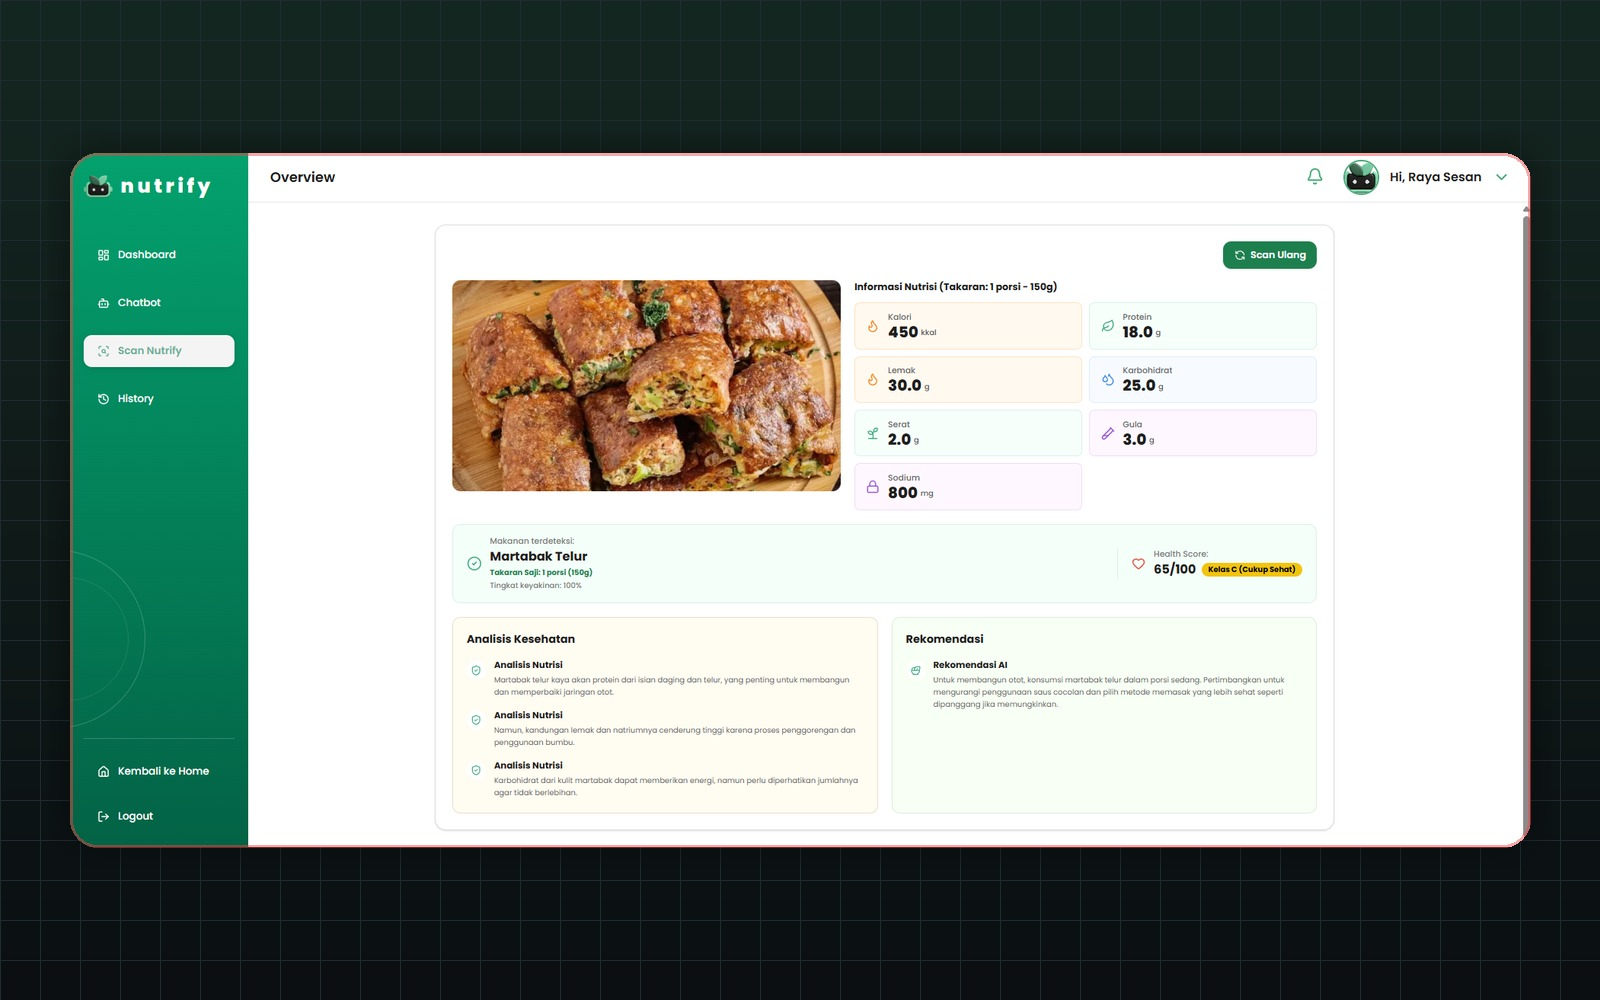
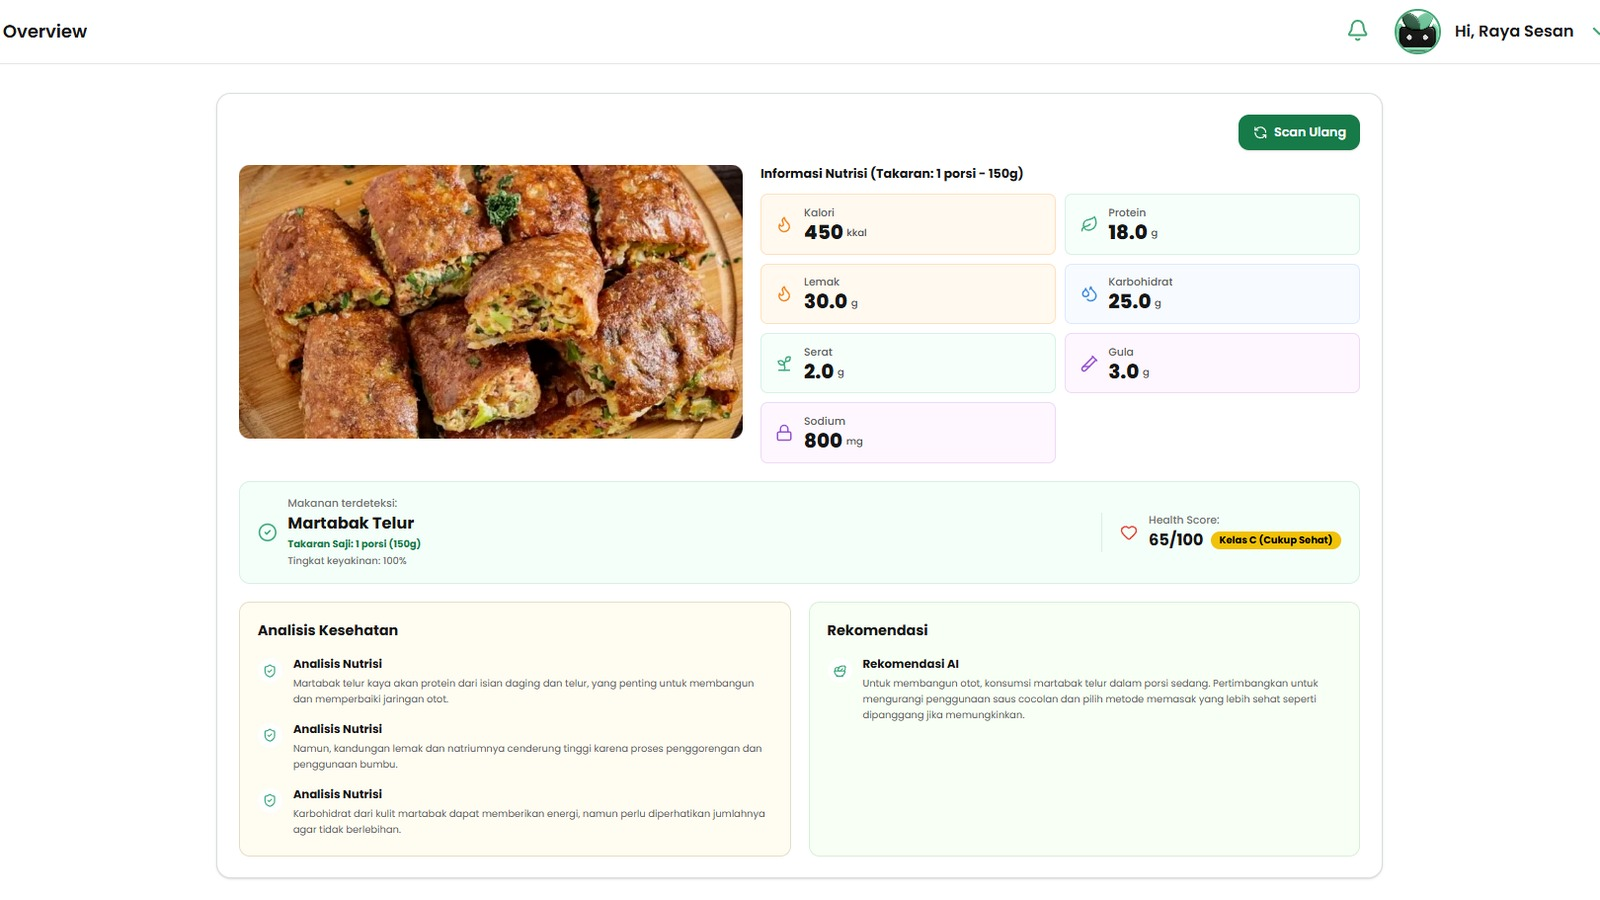
Polish project showcase interactions

diff --git a/src/components/Projects.jsx b/src/components/Projects.jsx
@@ -1,10 +1,10 @@
 import { useState } from 'react';
 
 const filters = [
-  { id: 'all', label: 'All' },
-  { id: 'ai', label: 'AI/ML' },
-  { id: 'sql', label: 'SQL' },
-  { id: 'bi', label: 'BI' },
+  { id: 'all', label: 'All', icon: 'lucide:layout-grid' },
+  { id: 'ai', label: 'AI/ML', icon: 'lucide:brain-circuit' },
+  { id: 'sql', label: 'SQL', icon: 'lucide:database' },
+  { id: 'bi', label: 'BI', icon: 'lucide:bar-chart-3' },
 ];
 
 const projects = [
@@ -17,8 +17,8 @@ const projects = [
     role: 'AI Engineer',
     contribution: 'Developed the Indonesian food classification pipeline using TensorFlow and transfer learning, implemented custom TensorFlow components, deployed model inference through FastAPI, and integrated Gemini-based nutrition recommendations with the application backend.',
     image: '/nutrify-preview.jpg',
-    imageFit: 'contain',
     imageTone: 'natural',
+    imageObjectPosition: 'center top',
     fallbackTitle: 'Nutrify Scanner Preview',
     fallbackText: 'Food scanner result with nutrition breakdown, health score, and AI recommendation.',
     alt: 'Screenshot preview of Nutrify AI-powered nutrition platform',
@@ -84,9 +84,9 @@ const projects = [
     categoryLabel: 'MACHINE LEARNING',
     title: 'Credit Risk Prediction',
     desc: 'Classifies borrower default risk using demographic, financial, and loan-related features. Random Forest outperformed Logistic Regression and was selected as the final model for credit risk assessment.',
-    image: '/credit_risk_ml.jpg',
-    fallbackTitle: 'Credit Risk Prediction',
-    fallbackText: 'Classification workflow for default risk analysis.',
+    image: null,
+    fallbackTitle: 'Preview Coming Soon',
+    fallbackText: 'Project visual will be added after the real screenshot is ready.',
     alt: 'Preview image for Credit Risk Prediction project',
     tags: ['Python', 'Scikit-learn', 'Classification', 'Random Forest', 'Feature Engineering'],
     stats: [
@@ -114,9 +114,9 @@ const projects = [
     categoryLabel: 'DATA ANALYSIS / SQL',
     title: 'Bank Marketing SQL Analytics',
     desc: 'Analyzes a bank marketing campaign dataset with SQLite to find customer segments and campaign factors linked to term deposit subscriptions. The analysis covers conversion by job, education, contact channel, campaign timing, and previous campaign outcome.',
-    image: '/sql_analytics.jpg',
-    fallbackTitle: 'Bank Marketing SQL Analytics',
-    fallbackText: 'SQL campaign segmentation and conversion analysis.',
+    image: null,
+    fallbackTitle: 'Preview Coming Soon',
+    fallbackText: 'Project visual will be added after the real screenshot is ready.',
     alt: 'Preview image for Bank Marketing SQL Analytics project',
     tags: ['SQL', 'SQLite', 'CTE', 'Window Functions', 'Segmentation'],
     stats: [
@@ -165,6 +165,13 @@ const projects = [
   },
 ];
 
+const filterCounts = filters.reduce((counts, filterItem) => {
+  counts[filterItem.id] = filterItem.id === 'all'
+    ? projects.length
+    : projects.filter((project) => project.category === filterItem.id).length;
+  return counts;
+}, {});
+
 export default function Projects() {
   const [filter, setFilter] = useState('all');
 
@@ -173,6 +180,7 @@ export default function Projects() {
   );
   const featuredProject = filteredProjects.find((project) => project.featured);
   const supportingProjects = filteredProjects.filter((project) => !project.featured);
+  const projectCountLabel = `${filteredProjects.length} ${filteredProjects.length === 1 ? 'Project' : 'Projects'} Showing`;
 
   return (
     <section id="projects" className="py-20 lg:py-24 border-t border-r-steel">
@@ -189,49 +197,78 @@ export default function Projects() {
               <button
                 key={filterItem.id}
                 type="button"
-                onClick={() => setFilter(filterItem.id)}
-                className={`min-h-10 text-[10px] font-bold tracking-[0.18em] uppercase px-4 py-2 border rounded transition-all ${filter === filterItem.id
-                  ? 'border-r-red bg-r-red/10 text-r-red'
+                onClick={() => {
+                  if (filter !== filterItem.id) {
+                    setFilter(filterItem.id);
+                  }
+                }}
+                className={`project-filter-btn min-h-10 inline-flex items-center gap-2 text-[10px] font-bold tracking-[0.18em] uppercase px-4 py-2 border rounded transition-all ${filter === filterItem.id
+                  ? 'is-active border-r-red bg-r-red/10 text-r-red'
                   : 'border-r-steel text-r-silver hover:text-r-red hover:border-r-red/40'
                 }`}
                 aria-pressed={filter === filterItem.id}
               >
-                {filterItem.label}
+                <span className="iconify" data-icon={filterItem.icon} data-width="13"></span>
+                <span>{filterItem.label}</span>
+                <span className="project-filter-count">{filterCounts[filterItem.id]}</span>
               </button>
             ))}
           </div>
         </div>
 
-        {featuredProject && <FeaturedProject project={featuredProject} />}
+        <p className="project-count reveal visible text-r-silver text-[10px] font-bold tracking-[0.18em] uppercase mb-4" aria-live="polite">
+          {projectCountLabel}
+        </p>
 
-        <div className="grid grid-cols-1 md:grid-cols-2 gap-4">
-          {supportingProjects.map((project) => (
-            <ProjectCard key={project.id} project={project} />
-          ))}
+        <div key={filter} className="projects-results">
+          {featuredProject && <FeaturedProject project={featuredProject} index={0} />}
+
+          <div className="grid grid-cols-1 md:grid-cols-2 gap-4">
+            {supportingProjects.map((project, index) => (
+              <ProjectCard
+                key={project.id}
+                project={project}
+                index={index + (featuredProject ? 1 : 0)}
+              />
+            ))}
+          </div>
         </div>
       </div>
     </section>
   );
 }
 
-function FeaturedProject({ project }) {
+function handleProjectPointerMove(event) {
+  const rect = event.currentTarget.getBoundingClientRect();
+  event.currentTarget.style.setProperty('--pointer-x', `${event.clientX - rect.left}px`);
+  event.currentTarget.style.setProperty('--pointer-y', `${event.clientY - rect.top}px`);
+}
+
+function FeaturedProject({ project, index }) {
   return (
-    <article className="proj-card reveal visible bg-r-gray border border-r-red/30 card-lift rounded overflow-hidden mb-4">
-      <div className="grid grid-cols-1 lg:grid-cols-[1.05fr_0.95fr]">
-        <div className="aspect-[16/10] lg:aspect-auto min-h-[280px] overflow-hidden relative">
-          <ProjectImage project={project} />
-          <span className="absolute top-3 right-3 bg-r-red text-black text-[10px] font-black tracking-[0.15em] uppercase px-2.5 py-1 rounded">
-            Featured
-          </span>
-        </div>
-        <div className="p-5 lg:p-7 flex flex-col">
+    <article
+      className="proj-card project-card-shell project-featured-card reveal visible bg-r-gray border border-r-red/30 card-lift rounded overflow-hidden mb-4"
+      onPointerMove={handleProjectPointerMove}
+      style={{ '--project-index': index }}
+    >
+      <div className="project-featured-media aspect-[16/9] min-h-[250px] max-h-[470px] overflow-hidden relative bg-r-dark">
+        <ProjectImage project={project} />
+        <div className="project-media-shade" aria-hidden="true"></div>
+        <span className="absolute top-3 right-3 bg-r-red text-black text-[10px] font-black tracking-[0.15em] uppercase px-2.5 py-1 rounded">
+          Featured
+        </span>
+      </div>
+      <div className="p-5 lg:p-7 grid grid-cols-1 lg:grid-cols-[1.12fr_0.88fr] gap-6">
+        <div>
           <p className="text-r-red text-[10px] font-bold tracking-[0.2em] uppercase mb-2">{project.categoryLabel}</p>
           <h3 className="text-white font-black text-2xl lg:text-3xl uppercase tracking-tight leading-[0.95] mb-3">{project.title}</h3>
           <p className="text-r-light text-sm leading-relaxed mb-4">{project.desc}</p>
-          <div className="border-y border-r-steel py-3 mb-4">
+          <div className="border-y border-r-steel py-3">
             <p className="text-r-red text-[10px] font-bold tracking-[0.16em] uppercase mb-1">Role: {project.role}</p>
             <p className="text-r-light text-xs leading-relaxed">{project.contribution}</p>
           </div>
+        </div>
+        <div className="flex flex-col">
           <ProjectTags tags={project.tags} />
           <ProjectStats stats={project.stats} />
           <ProjectActions links={project.links} />
@@ -241,9 +278,13 @@ function FeaturedProject({ project }) {
   );
 }
 
-function ProjectCard({ project }) {
+function ProjectCard({ project, index }) {
   return (
-    <article className="proj-card reveal visible bg-r-gray border border-r-steel card-lift rounded overflow-hidden">
+    <article
+      className="proj-card project-card-shell reveal visible bg-r-gray border border-r-steel card-lift rounded overflow-hidden"
+      onPointerMove={handleProjectPointerMove}
+      style={{ '--project-index': index }}
+    >
       <div className="aspect-[16/10] overflow-hidden relative">
         <ProjectImage project={project} />
       </div>
@@ -265,8 +306,8 @@ function ProjectImage({ project }) {
     ? 'proj-img w-full h-full object-contain object-center bg-r-dark transition-transform duration-700'
     : 'proj-img w-full h-full object-cover transition-transform duration-700';
   const imageStyle = project.imageTone === 'natural'
-    ? { filter: 'contrast(1.02) saturate(1.04) brightness(0.96)' }
-    : { filter: 'grayscale(45%) contrast(1.08) brightness(0.72)' };
+    ? { filter: 'contrast(1.02) saturate(1.05) brightness(0.98)', objectPosition: project.imageObjectPosition }
+    : { filter: 'grayscale(45%) contrast(1.08) brightness(0.72)', objectPosition: project.imageObjectPosition };
 
   if (hasError || !project.image) {
     return <ImageFallback title={project.fallbackTitle} text={project.fallbackText} />;

diff --git a/src/index.css b/src/index.css
@@ -295,15 +295,148 @@ html:not(.js-enabled) .tl-dot {
   pointer-events: auto;
 }
 
+.project-filter-btn {
+  position: relative;
+  isolation: isolate;
+  overflow: hidden;
+}
+.project-filter-btn::before {
+  content: "";
+  position: absolute;
+  inset: 0;
+  z-index: -1;
+  opacity: 0;
+  background: linear-gradient(120deg, transparent, rgba(239, 68, 68, 0.18), transparent);
+  transform: translateX(-120%);
+  transition: transform 0.45s cubic-bezier(0.22, 1, 0.36, 1), opacity 0.25s ease;
+}
+.project-filter-btn:hover::before,
+.project-filter-btn.is-active::before {
+  opacity: 1;
+  transform: translateX(120%);
+}
+.project-filter-btn.is-active {
+  box-shadow: 0 0 22px rgba(239, 68, 68, 0.12);
+}
+.project-filter-count {
+  min-width: 18px;
+  height: 18px;
+  display: inline-flex;
+  align-items: center;
+  justify-content: center;
+  border-radius: 999px;
+  background: rgba(239, 68, 68, 0.12);
+  color: #f87171;
+  font-size: 9px;
+  line-height: 1;
+}
+.project-filter-btn.is-active .project-filter-count {
+  background: #ef4444;
+  color: #000;
+}
+.projects-results {
+  animation: projectResultsIn 0.42s cubic-bezier(0.22, 1, 0.36, 1) both;
+}
+.project-card-shell {
+  --pointer-x: 50%;
+  --pointer-y: 50%;
+  position: relative;
+  isolation: isolate;
+  animation: projectCardIn 0.58s cubic-bezier(0.22, 1, 0.36, 1) both;
+  animation-delay: calc(var(--project-index, 0) * 80ms);
+}
+.project-card-shell::before {
+  content: "";
+  position: absolute;
+  inset: 0;
+  z-index: 1;
+  pointer-events: none;
+  opacity: 0;
+  background: radial-gradient(
+    420px circle at var(--pointer-x) var(--pointer-y),
+    rgba(239, 68, 68, 0.16),
+    transparent 42%
+  );
+  transition: opacity 0.28s ease;
+}
+.project-card-shell:hover::before {
+  opacity: 1;
+}
+.project-card-shell > * {
+  position: relative;
+  z-index: 2;
+}
+.project-featured-media {
+  border-bottom: 1px solid #262626;
+}
+.project-media-shade {
+  position: absolute;
+  inset: 0;
+  pointer-events: none;
+  background: linear-gradient(to bottom, transparent 56%, rgba(0, 0, 0, 0.42));
+}
 .proj-card:hover .proj-img {
   transform: scale(1.06);
 }
+.project-featured-card:hover .proj-img {
+  transform: scale(1.025);
+}
 
 .project-image-fallback {
+  position: relative;
+  overflow: hidden;
   background:
     linear-gradient(135deg, rgba(239, 68, 68, 0.16), rgba(17, 17, 17, 0.82)),
     repeating-linear-gradient(90deg, rgba(239, 68, 68, 0.06) 0 1px, transparent 1px 22px),
     #0a0a0a;
+}
+.project-image-fallback::before {
+  content: "";
+  position: absolute;
+  inset: 0;
+  background: linear-gradient(to bottom, transparent, rgba(239, 68, 68, 0.18), transparent);
+  transform: translateY(-100%);
+  animation: projectFallbackScan 4s ease-in-out infinite;
+}
+.project-image-fallback > * {
+  position: relative;
+  z-index: 1;
+}
+
+@keyframes projectResultsIn {
+  from {
+    opacity: 0;
+    transform: translateY(16px);
+  }
+  to {
+    opacity: 1;
+    transform: translateY(0);
+  }
+}
+
+@keyframes projectCardIn {
+  from {
+    opacity: 0;
+    transform: translateY(26px) scale(0.98);
+  }
+  to {
+    opacity: 1;
+    transform: translateY(0) scale(1);
+  }
+}
+
+@keyframes projectFallbackScan {
+  0%,
+  45% {
+    transform: translateY(-100%);
+  }
+  100% {
+    transform: translateY(130%);
+  }
+}
+
+.project-count {
+  animation: projectResultsIn 0.42s cubic-bezier(0.22, 1, 0.36, 1) both;
 }
 
 .reveal {
@@ -327,6 +460,10 @@ html:not(.js-enabled) .tl-dot {
   .card-lift:hover {
     transform: none;
   }
+
+  .project-card-shell:hover::before {
+    opacity: 0;
+  }
 }
 
 @media (prefers-reduced-motion: reduce) {
@@ -342,5 +479,12 @@ html:not(.js-enabled) .tl-dot {
   .js-enabled .reveal {
     opacity: 1;
     transform: translateY(0);
+  }
+
+  .project-card-shell,
+  .projects-results,
+  .project-count,
+  .project-image-fallback::before {
+    animation: none !important;
   }
 }
